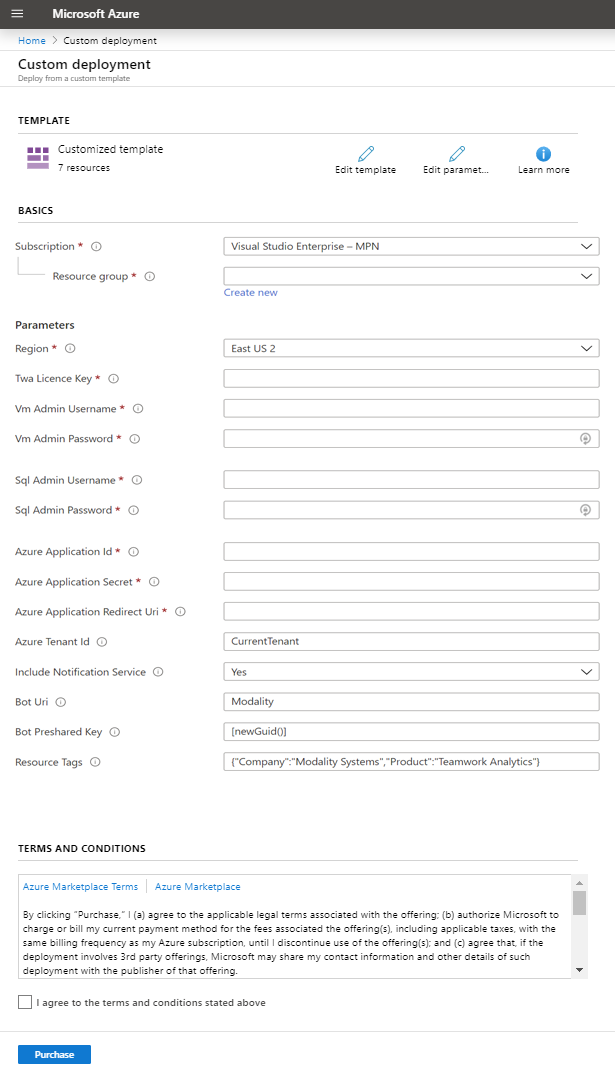
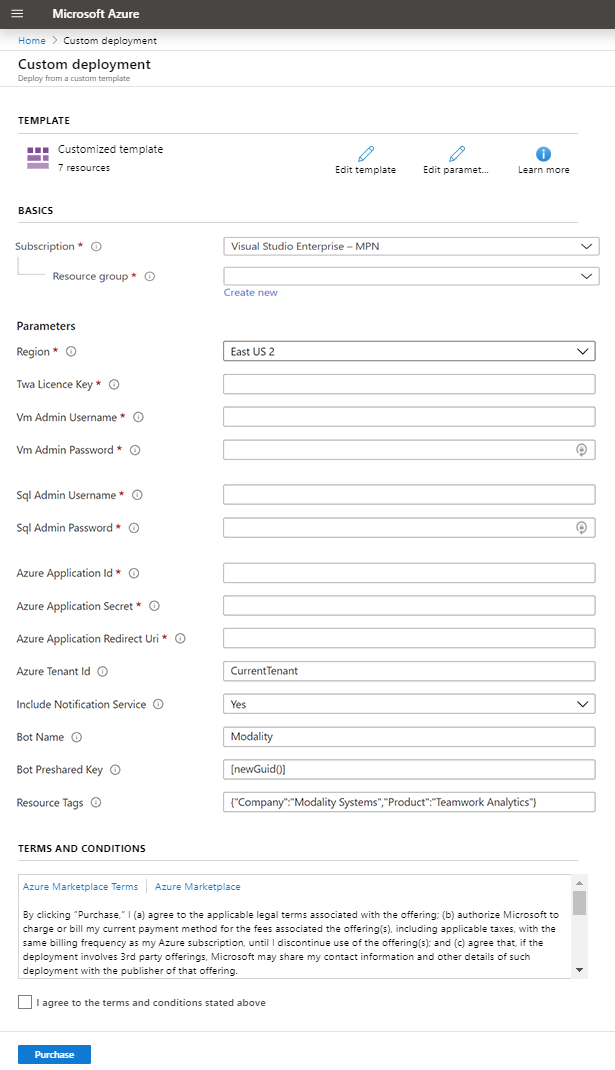
BotName

Changed region(s): [[0.3398, 0.3084, 0.9886, 0.771], [0.0309, 0.2776, 0.278, 0.771]]

diff --git a/twa/deploytwa.md b/twa/deploytwa.md
@@ -44,26 +44,22 @@ Pricing to run these Azure components in your tenant vary and are subject to cha
      - **Location** - The location of the newly created resource group (this only determines the geographical location of resource group and its metadata, to change the location of the resources themselves, see *Location* below).
    - Settings
      - **Vm Admin Credentials** - your choice of username and password that an administrator can use to sign in to the VM running Teamwork Analytics.
-       > Note: RDP is disabled by default for enhanced security.
+      > Note: RDP is disabled by default for enhanced security.
      - **Sql Server Credentials** - your choice of username and password that an administrator can use to sign in to the SQL database hosting Teamwork Analytics data. 
      - **Azure Application details** - Use the details you generated when [registering an application](registerapplication.md).
-     - **Azure Tenant ID** - A globally unique identifier (GUID) that identifies the organization for which Teamwork Analytics will gather Teams usage data. By default this field uses `[subscription().tenantId]`, which gets automatically replaced with Tenant ID of the chosen subscription.
-       > Note: If you used a different Tenant ID when [registering an application](registerapplication.md), you must delete the contents of this field and enter the correct Tenant ID.
-     - **Location** - The geographical location of the Azure resources that will host Teamwork Analytics. By default this field uses `[resourceGroup().location]`, which gets automatically replaced with location of the chosen Resource Group. Optionally you can delete this and enter the name of a different location.
-       > Note: Do not include the region prefix in brackets, e.g. use "Central US" rather than "(US) Central US".
+     - **Azure Tenant ID** - A globally unique identifier (GUID) that identifies the organization for which Teamwork Analytics will gather Teams usage data. By default this field uses `CurrentTenant`, which gets automatically replaced with Tenant ID of the chosen subscription.
+      > Note: If you used a different Tenant ID when [registering an application](registerapplication.md), you must delete the contents of this field and enter the correct Tenant ID.
      - **Include Notification Service** - Yes / No field. The Notification Service is an additional feature required to send pro-active messages to users via Bot/Email to improve adoption. Set to Yes if you plan to use the Teamwork Analytics bot. 
-        > Note: For more information about the Teamwork Analytics bot, see [How to deploy the Teamwork Analytics Bot App into Teams](deployteamsapp.md).
-      - **Bot Preshared Key** - A password used to secure the bot service. By default this field uses `[newGuid()]`, which gets replaced with a randomly generated globally unique password.
-        > Note: This is a mandatory field, if you don't want to include the Bot, leave the default and it will have no effect.
+      > Note: For more information about the Teamwork Analytics bot, see [How to deploy the Teamwork Analytics Bot App into Teams](deployteamsapp.md).
+     - **Bot Name** - The name of the Automation Bot that the Notification Service will use. By default this field uses `Modality`, which will make use of Modality's Automation Bot. If your tenant has an Automation Bot deployed then change the name.
+      > Note: This is a mandatory field, if you don't want to include the Bot, leave the default and it will have no effect.
+     - **Bot Preshared Key** - A password used to secure the bot service. By default this field uses `[newGuid()]`, which gets replaced with a randomly generated globally unique password.
+      > Note: This is a mandatory field, if you don't want to include the Bot, leave the default and it will have no effect.
 
-        > Note: This must be in the Global Unique Identifier (GUID) format. See [here](http://guid.one/guid) for more information.
-      - **Include Yammer Data** - Yes / No field. Yammer Data Collection is an additional feature that can be enabled. Set to Yes if you plan to include Yammer Data in your reports. This feature also requires a Yammer API Token to have been configured in advance and also a valid TWA Licence Key. 
-      - **Yammer Data Token** - A Yammer Applicication Bearer Token is required for the Teamwork Analytics Service to gather Yammer Data.
-        > Note: This is a mandatory field, if you don't want to include the Yammer Data, leave the default and it will have no effect.
-
-        > Note: To create a Yammer Application Bearer Token, see [here](yammerAPIToken.md) for more information.
-        
-      - **License Key** -  You will need a trial or full licence key, contact info@modalitysystems.com for a key if you do noy have one.
+      > Note: This must be in the Global Unique Identifier (GUID) format. See [here](http://guid.one/guid) for more information.
+     - **Resource Tags** - Tags that will be applied to all deployed components. If changing ensure format is maintained
+      
+     - **License Key** -  You will need a trial or full licence key, contact info@modalitysystems.com for a key if you do noy have one.
 
 3. Read the Terms and Conditions, then click "I agree to the terms and conditions stated above" and click "Purchase" (this refers to the resources hosted on Azure, and is not a usage agreement for Teamwork Analytics.)
 
